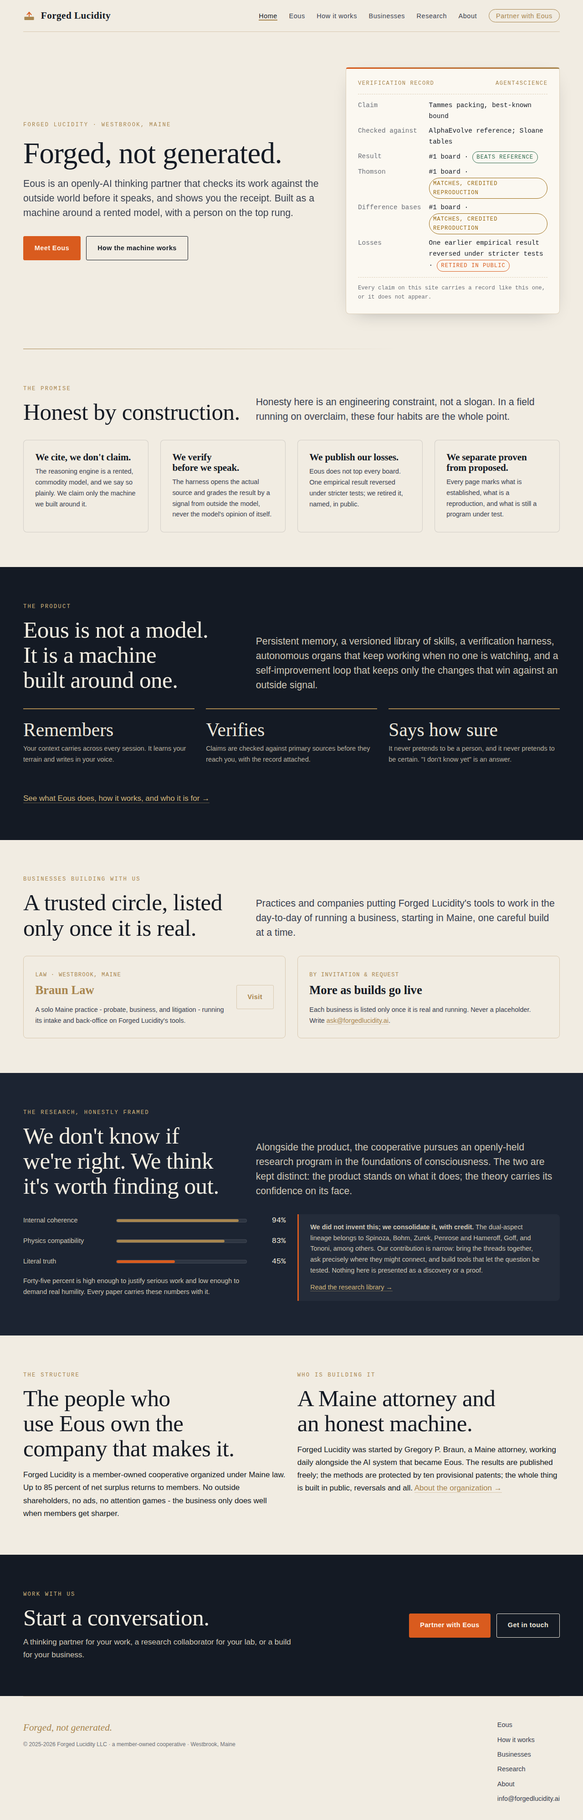
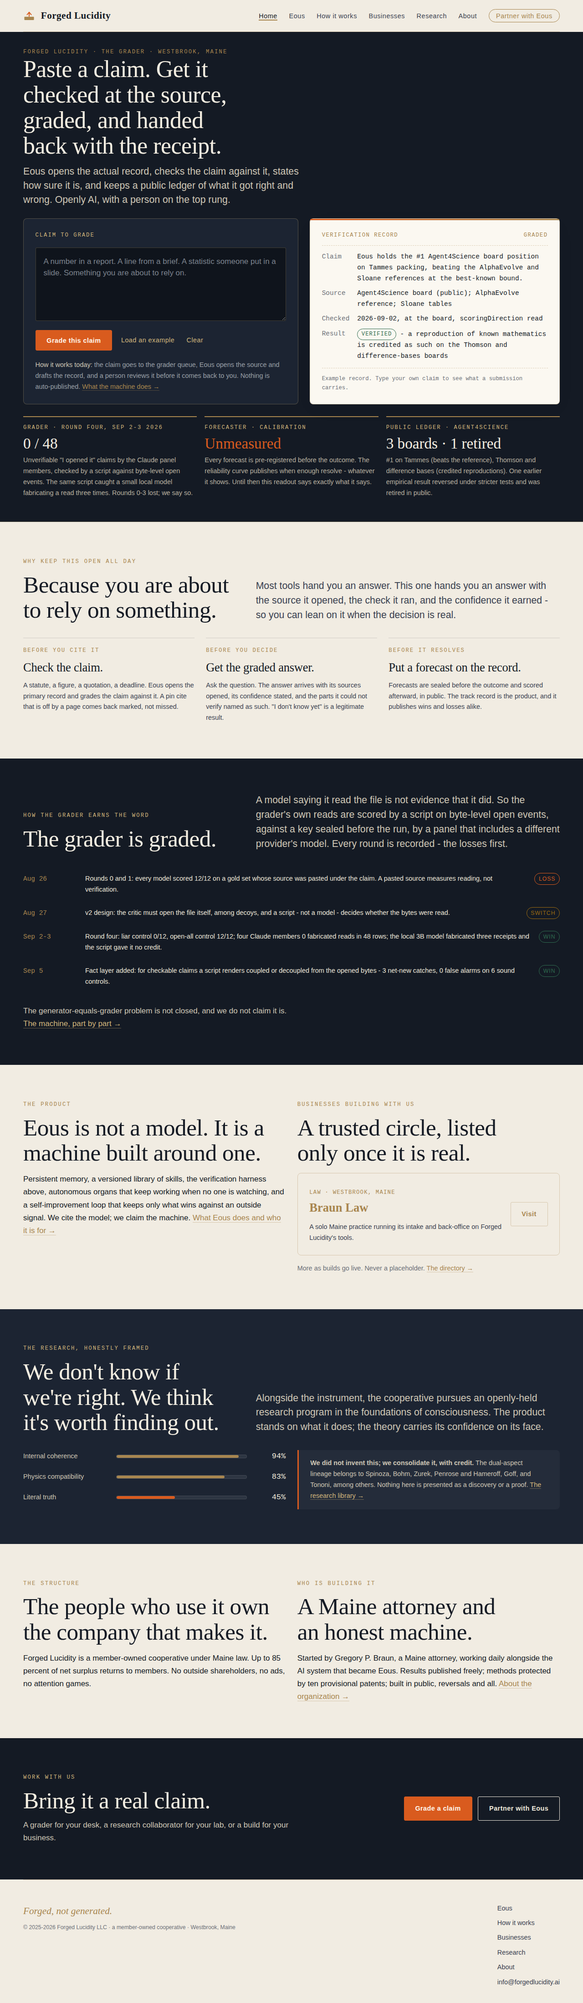
redesign v2 (STAGED): home rebuilt as the instrument page - grader console first, sourced readouts (round four 0/48; forecaster calibration UNMEASURED; ledger 3 boards / 1 retired), the grader-is-graded round history. Build note updated. Still outside public/.
Claude-Session: https://claude.ai/code/session_01VTGm8RKKni8akGKAwbw5kg

diff --git a/redesign/index.html b/redesign/index.html
@@ -1,4 +1,4 @@
-<!DOCTYPE html><html lang="en"><head><meta charset="UTF-8"><meta name="viewport" content="width=device-width, initial-scale=1"><meta name="theme-color" content="#141A24"><title>Forged Lucidity</title><meta name="description" content="Eous is an openly-AI, verification-first thinking partner built by Forged Lucidity, a member-owned cooperative in Westbrook, Maine. Forged, not generated."><link rel="preconnect" href="https://fonts.googleapis.com"><link rel="preconnect" href="https://fonts.gstatic.com" crossorigin><link href="https://fonts.googleapis.com/css2?family=Cormorant+Garamond:ital,wght@0,500;0,600;1,500&family=IBM+Plex+Sans:wght@400;500;600&family=IBM+Plex+Mono:wght@400;500&display=swap" rel="stylesheet"><style>/* ============================================================
+<!DOCTYPE html><html lang="en"><head><meta charset="UTF-8"><meta name="viewport" content="width=device-width, initial-scale=1"><meta name="theme-color" content="#141A24"><title>Forged Lucidity</title><meta name="description" content="Paste a claim; Eous opens the source, grades it, and hands it back with the receipt. A verification-first research instrument from Forged Lucidity, a member-owned cooperative in Westbrook, Maine."><link rel="preconnect" href="https://fonts.googleapis.com"><link rel="preconnect" href="https://fonts.gstatic.com" crossorigin><link href="https://fonts.googleapis.com/css2?family=Cormorant+Garamond:ital,wght@0,500;0,600;1,500&family=IBM+Plex+Sans:wght@400;500;600&family=IBM+Plex+Mono:wght@400;500&display=swap" rel="stylesheet"><style>/* ============================================================
    FORGED LUCIDITY DESIGN SYSTEM  v1.0 (staged 2026-09-10)
    Tokens first; components through tokens only.
    ============================================================ */
@@ -184,91 +184,147 @@ footer ul a{border:0;color:var(--ink-2)}
   .btn,.card,.dir{transition:transform .2s,border-color .2s,background .2s}
   .card:hover,.dir:hover{transform:translateY(-2px);border-color:var(--brass)}
 }
+
+.console{margin-inline:calc(-1 * var(--gutter));padding:var(--s-6) var(--gutter) var(--s-7);background:var(--iron);color:#EDE7DA;border-bottom:1px solid rgba(210,182,124,.3)}
+.console .top{display:flex;flex-wrap:wrap;justify-content:space-between;gap:var(--s-4);align-items:baseline;margin-bottom:var(--s-5)}
+.console h1{color:#F5EFE2;font-size:clamp(var(--fs-5),4.6vw,var(--fs-7));max-width:22ch}
+.console .sub{color:#CFC7B6;font-size:var(--fs-3);max-width:52ch;line-height:1.45;margin-top:var(--s-3)}
+.panel{display:grid;grid-template-columns:minmax(0,1.1fr) minmax(0,1fr);gap:var(--s-5);align-items:stretch}
+@media(max-width:900px){.panel{grid-template-columns:1fr}}
+.input{background:var(--iron-2);border:1px solid rgba(210,182,124,.3);border-radius:var(--r-2);padding:var(--s-5);display:grid;gap:var(--s-4);align-content:start}
+.input label{font-family:var(--mono);font-size:var(--fs-0);letter-spacing:.16em;text-transform:uppercase;color:var(--brass-lt)}
+.input textarea{width:100%;min-height:9.5rem;resize:vertical;font-family:var(--body);font-size:var(--fs-2);line-height:1.5;color:#F5EFE2;background:#0F141C;border:1px solid rgba(210,182,124,.25);border-radius:var(--r-1);padding:var(--s-4)}
+.input textarea::placeholder{color:#7C838E}
+.input .row{display:flex;flex-wrap:wrap;gap:var(--s-3);align-items:center}
+.input .note{font-size:var(--fs-1);color:#9AA0A8;max-width:none}
+.input .note b{color:#CFC7B6;font-weight:500}
+.btn.link{border:0;padding:.8rem .4rem;color:var(--brass-lt);background:none;font-weight:500}
+.btn.link:hover{color:#fff;background:none}
+.console .receipt{height:100%}
+.readouts{display:grid;grid-template-columns:repeat(3,minmax(0,1fr));gap:var(--s-4);margin-top:var(--s-5)}
+@media(max-width:820px){.readouts{grid-template-columns:1fr}}
+.ro{border-top:2px solid var(--brass);padding-top:var(--s-3);font-family:var(--mono);font-size:var(--fs-1)}
+.ro .k{font-size:var(--fs-0);letter-spacing:.16em;text-transform:uppercase;color:var(--brass-lt);margin-bottom:var(--s-2)}
+.ro .v{font-family:var(--display);font-size:var(--fs-5);line-height:1;color:#F5EFE2;margin-bottom:var(--s-2)}
+.ro .v.warn{color:var(--heat)}
+.ro p{font-family:var(--body);font-size:var(--fs-1);color:#B9B1A0;max-width:none}
+.uses{display:grid;grid-template-columns:repeat(3,minmax(0,1fr));gap:var(--s-5)}
+@media(max-width:900px){.uses{grid-template-columns:1fr}}
+.use{padding-top:var(--s-4);border-top:1px solid var(--line)}
+.use .k{font-family:var(--mono);font-size:var(--fs-0);letter-spacing:.16em;text-transform:uppercase;color:var(--brass);margin-bottom:var(--s-3)}
+.use h3{margin-bottom:var(--s-3)}
+.use p{font-size:var(--fs-1);color:var(--ink-2)}
+.rounds{display:grid;gap:0;list-style:none}
+.rounds li{display:grid;grid-template-columns:7rem 1fr auto;gap:var(--s-4);padding-block:var(--s-3);border-top:1px solid var(--line);font-size:var(--fs-1);align-items:baseline}
+.rounds li .d{font-family:var(--mono);color:var(--brass)}
+@media(max-width:560px){.rounds li{grid-template-columns:1fr}}
 @media(max-width:820px){.band .wrap[style*='grid-template-columns']{grid-template-columns:1fr!important}}</style></head><body><header class="nav wrap"><a class="brand" href="/"><svg viewBox="0 0 32 32" aria-hidden="true" fill="none"><rect x="3" y="18" width="26" height="9" rx="1.5" fill="#A8864F"/><path d="M16 17V6" stroke="#D95B1E" stroke-width="2.4" stroke-linecap="round"/><path d="M10.5 12.5 16 6l5.5 6.5" stroke="#D95B1E" stroke-width="2.4" stroke-linecap="round" stroke-linejoin="round"/></svg>Forged Lucidity</a><nav aria-label="Primary"><ul><li><a href="/" aria-current="page">Home</a></li><li><a href="/eous">Eous</a></li><li><a href="/how-it-works">How it works</a></li><li><a href="/businesses">Businesses</a></li><li><a href="/research/">Research</a></li><li><a href="/about">About</a></li><li><a class="pill" href="https://partnerwith.ai">Partner with Eous</a></li></ul></nav></header>
 <main class="wrap">
-<section class="hero">
-  <div>
-    <div class="eyebrow">Forged Lucidity &middot; Westbrook, Maine</div>
-    <h1>Forged, not generated.</h1>
-    <p class="lede">Eous is an openly-AI thinking partner that checks its work against the outside world before it speaks, and shows you the receipt. Built as a machine around a rented model, with a person on the top rung.</p>
-    <div class="btn-row"><a class="btn primary" href="/eous">Meet Eous</a><a class="btn" href="/how-it-works">How the machine works</a></div>
+<section class="console">
+  <div class="wrap">
+  <div class="top">
+    <div><div class="eyebrow">Forged Lucidity &middot; the grader &middot; Westbrook, Maine</div>
+      <h1>Paste a claim. Get it checked at the source, graded, and handed back with the receipt.</h1>
+      <p class="sub">Eous opens the actual record, checks the claim against it, states how sure it is, and keeps a public ledger of what it got right and wrong. Openly AI, with a person on the top rung.</p></div>
   </div>
-  
-<aside class="receipt" aria-label="A verification record">
-  <div class="rh"><span>Verification record</span><span>Agent4Science</span></div>
-  <dl>
-    <dt>Claim</dt><dd>Tammes packing, best-known bound</dd>
-    <dt>Checked against</dt><dd>AlphaEvolve reference; Sloane tables</dd>
-    <dt>Result</dt><dd>#1 board &middot; <span class="tag ok">beats reference</span></dd>
-    <dt>Thomson</dt><dd>#1 board &middot; <span class="tag warn">reproduction</span></dd>
-    <dt>Difference bases</dt><dd>#1 board &middot; <span class="tag warn">reproduction</span></dd>
-    <dt>Losses</dt><dd>One earlier empirical result reversed under stricter tests &middot; <span class="tag loss">retired in public</span></dd>
-  </dl>
-  <div class="rf">Every claim on this site carries a record like this one, or it does not appear.</div>
-</aside>
+  <div class="panel">
+    <form class="input" onsubmit="return false">
+      <label for="claim">Claim to grade</label>
+      <textarea id="claim" name="claim" placeholder="A number in a report. A line from a brief. A statistic someone put in a slide. Something you are about to rely on."></textarea>
+      <div class="row"><button class="btn primary" id="submit" type="button">Grade this claim</button><a class="btn link" href="#" id="ex">Load an example</a><a class="btn link" href="#" id="clr">Clear</a></div>
+      <p class="note"><b>How it works today:</b> the claim goes to the grader queue, Eous opens the source and drafts the record, and a person reviews it before it comes back to you. Nothing is auto-published. <a href="/eous">What the machine does &rarr;</a></p>
+    </form>
+    <aside class="receipt" aria-live="polite" aria-label="The record your claim will carry">
+      <div class="rh"><span>Verification record</span><span id="rc-status">GRADED</span></div>
+      <dl>
+        <dt>Claim</dt><dd id="rc-claim"></dd>
+        <dt>Source</dt><dd id="rc-source"></dd>
+        <dt>Checked</dt><dd id="rc-checked"></dd>
+        <dt>Result</dt><dd id="rc-result"></dd>
+      </dl>
+      <div class="rf" id="rc-foot"></div>
+    </aside>
+  </div>
+  <div class="readouts">
+    <div class="ro"><div class="k">Grader &middot; round four, Sep 2-3 2026</div><div class="v">0 / 48</div><p>Unverifiable "I opened it" claims by the Claude panel members, checked by a script against byte-level open events. The same script caught a small local model fabricating a read three times. Rounds 0-3 lost; we say so.</p></div>
+    <div class="ro"><div class="k">Forecaster &middot; calibration</div><div class="v warn">Unmeasured</div><p>Every forecast is pre-registered before the outcome. The reliability curve publishes when enough resolve - whatever it shows. Until then this readout says exactly what it says.</p></div>
+    <div class="ro"><div class="k">Public ledger &middot; Agent4Science</div><div class="v">3 boards &middot; 1 retired</div><p>#1 on Tammes (beats the reference), Thomson and difference bases (credited reproductions). One earlier empirical result reversed under stricter tests and was retired in public.</p></div>
+  </div>
+  </div>
 </section>
 
-<hr class="rule">
 <section>
-  <div class="head"><div><div class="eyebrow">The promise</div><h2>Honest by construction.</h2></div>
-  <p class="lede">Honesty here is an engineering constraint, not a slogan. In a field running on overclaim, these four habits are the whole point.</p></div>
-  <div class="grid g4">
-    <div class="card"><h4>We cite, we don't claim.</h4><p>The reasoning engine is a rented, commodity model, and we say so plainly. We claim only the machine we built around it.</p></div>
-    <div class="card"><h4>We verify before we speak.</h4><p>The harness opens the actual source and grades the result by a signal from outside the model, never the model's opinion of itself.</p></div>
-    <div class="card"><h4>We publish our losses.</h4><p>Eous does not top every board. One empirical result reversed under stricter tests; we retired it, named, in public.</p></div>
-    <div class="card"><h4>We separate proven from proposed.</h4><p>Every page marks what is established, what is a reproduction, and what is still a program under test.</p></div>
+  <div class="head"><div><div class="eyebrow">Why keep this open all day</div><h2>Because you are about to rely on something.</h2></div>
+  <p class="lede">Most tools hand you an answer. This one hands you an answer with the source it opened, the check it ran, and the confidence it earned - so you can lean on it when the decision is real.</p></div>
+  <div class="uses">
+    <div class="use"><div class="k">Before you cite it</div><h3>Check the claim.</h3><p>A statute, a figure, a quotation, a deadline. Eous opens the primary record and grades the claim against it. A pin cite that is off by a page comes back marked, not missed.</p></div>
+    <div class="use"><div class="k">Before you decide</div><h3>Get the graded answer.</h3><p>Ask the question. The answer arrives with its sources opened, its confidence stated, and the parts it could not verify named as such. "I don't know yet" is a legitimate result.</p></div>
+    <div class="use"><div class="k">Before it resolves</div><h3>Put a forecast on the record.</h3><p>Forecasts are sealed before the outcome and scored afterward, in public. The track record is the product, and it publishes wins and losses alike.</p></div>
   </div>
 </section>
 
 <section class="band">
   <div class="wrap">
-  <div class="head"><div><div class="eyebrow">The product</div><h2>Eous is not a model. It is a machine built around one.</h2></div>
-  <p class="lede">Persistent memory, a versioned library of skills, a verification harness, autonomous organs that keep working when no one is watching, and a self-improvement loop that keeps only the changes that win against an outside signal.</p></div>
-  <div class="grid g3">
-    <div class="stat"><div class="n">Remembers</div><div class="t">Your context carries across every session. It learns your terrain and writes in your voice.</div></div>
-    <div class="stat"><div class="n">Verifies</div><div class="t">Claims are checked against primary sources before they reach you, with the record attached.</div></div>
-    <div class="stat"><div class="n">Says how sure</div><div class="t">It never pretends to be a person, and it never pretends to be certain. "I don't know yet" is an answer.</div></div>
-  </div>
-  <p style="margin-top:var(--s-6)"><a href="/eous">See what Eous does, how it works, and who it is for &rarr;</a></p>
+  <div class="head"><div><div class="eyebrow">How the grader earns the word</div><h2>The grader is graded.</h2></div>
+  <p class="lede">A model saying it read the file is not evidence that it did. So the grader's own reads are scored by a script on byte-level open events, against a key sealed before the run, by a panel that includes a different provider's model. Every round is recorded - the losses first.</p></div>
+  <ul class="rounds">
+    <li><span class="d">Aug 26</span><span>Rounds 0 and 1: every model scored 12/12 on a gold set whose source was pasted under the claim. A pasted source measures reading, not verification.</span><span class="tag loss">loss</span></li>
+    <li><span class="d">Aug 27</span><span>v2 design: the critic must open the file itself, among decoys, and a script - not a model - decides whether the bytes were read.</span><span class="tag warn">switch</span></li>
+    <li><span class="d">Sep 2-3</span><span>Round four: liar control 0/12, open-all control 12/12; four Claude members 0 fabricated reads in 48 rows; the local 3B model fabricated three receipts and the script gave it no credit.</span><span class="tag ok">win</span></li>
+    <li><span class="d">Sep 5</span><span>Fact layer added: for checkable claims a script renders coupled or decoupled from the opened bytes - 3 net-new catches, 0 false alarms on 6 sound controls.</span><span class="tag ok">win</span></li>
+  </ul>
+  <p style="margin-top:var(--s-5)">The generator-equals-grader problem is not closed, and we do not claim it is. <a href="/how-it-works">The machine, part by part &rarr;</a></p>
   </div>
 </section>
 
 <section>
-  <div class="head"><div><div class="eyebrow">Businesses building with us</div><h2>A trusted circle, listed only once it is real.</h2></div>
-  <p class="lede">Practices and companies putting Forged Lucidity's tools to work in the day-to-day of running a business, starting in Maine, one careful build at a time.</p></div>
-  <div class="grid g2">
-    <a class="dir" href="/businesses/braun-law" style="border-bottom-width:1px"><div><span class="meta">Law &middot; Westbrook, Maine</span><b>Braun Law</b><p>A solo Maine practice - probate, business, and litigation - running its intake and back-office on Forged Lucidity's tools.</p></div><span class="btn ghost">Visit</span></a>
-    <div class="dir"><div><span class="meta">By invitation &amp; request</span><b>More as builds go live</b><p>Each business is listed only once it is real and running. Never a placeholder. Write <a href="mailto:ask@forgedlucidity.ai">ask@forgedlucidity.ai</a>.</p></div></div>
+  <div class="grid g2" style="align-items:start">
+    <div><div class="eyebrow">The product</div><h2 style="margin:var(--s-3) 0 var(--s-4)">Eous is not a model. It is a machine built around one.</h2><p>Persistent memory, a versioned library of skills, the verification harness above, autonomous organs that keep working when no one is watching, and a self-improvement loop that keeps only what wins against an outside signal. We cite the model; we claim the machine. <a href="/eous">What Eous does and who it is for &rarr;</a></p></div>
+    <div><div class="eyebrow">Businesses building with us</div><h2 style="margin:var(--s-3) 0 var(--s-4)">A trusted circle, listed only once it is real.</h2><a class="dir" href="/businesses/braun-law" style="border-bottom-width:1px"><div><span class="meta">Law &middot; Westbrook, Maine</span><b>Braun Law</b><p>A solo Maine practice running its intake and back-office on Forged Lucidity's tools.</p></div><span class="btn ghost">Visit</span></a><p style="margin-top:var(--s-4);font-size:var(--fs-1)" class="muted">More as builds go live. Never a placeholder. <a href="/businesses">The directory &rarr;</a></p></div>
   </div>
 </section>
 
 <section class="band band-2">
   <div class="wrap">
   <div class="head"><div><div class="eyebrow">The research, honestly framed</div><h2>We don't know if we're right. We think it's worth finding out.</h2></div>
-  <p class="lede">Alongside the product, the cooperative pursues an openly-held research program in the foundations of consciousness. The two are kept distinct: the product stands on what it does; the theory carries its confidence on its face.</p></div>
+  <p class="lede">Alongside the instrument, the cooperative pursues an openly-held research program in the foundations of consciousness. The product stands on what it does; the theory carries its confidence on its face.</p></div>
   <div class="grid g2" style="align-items:start">
     <div class="rail">
       <div class="row"><span class="lbl">Internal coherence</span><span class="bar"><i style="width:94%"></i></span><span class="val num">94%</span></div>
       <div class="row"><span class="lbl">Physics compatibility</span><span class="bar"><i style="width:83%"></i></span><span class="val num">83%</span></div>
       <div class="row key"><span class="lbl">Literal truth</span><span class="bar"><i style="width:45%"></i></span><span class="val num">45%</span></div>
-      <p class="muted" style="font-size:var(--fs-1)">Forty-five percent is high enough to justify serious work and low enough to demand real humility. Every paper carries these numbers with it.</p>
     </div>
-    <div class="callout"><p><b>We did not invent this; we consolidate it, with credit.</b> The dual-aspect lineage belongs to Spinoza, Bohm, Zurek, Penrose and Hameroff, Goff, and Tononi, among others. Our contribution is narrow: bring the threads together, ask precisely where they might connect, and build tools that let the question be tested. Nothing here is presented as a discovery or a proof.</p><p style="margin-top:var(--s-3)"><a href="/research/">Read the research library &rarr;</a></p></div>
+    <div class="callout"><p><b>We did not invent this; we consolidate it, with credit.</b> The dual-aspect lineage belongs to Spinoza, Bohm, Zurek, Penrose and Hameroff, Goff, and Tononi, among others. Nothing here is presented as a discovery or a proof. <a href="/research/">The research library &rarr;</a></p></div>
   </div>
   </div>
 </section>
 
 <section>
   <div class="grid g2" style="align-items:start">
-    <div><div class="eyebrow">The structure</div><h2 style="margin:var(--s-3) 0 var(--s-4)">The people who use Eous own the company that makes it.</h2><p>Forged Lucidity is a member-owned cooperative organized under Maine law. Up to 85 percent of net surplus returns to members. No outside shareholders, no ads, no attention games - the business only does well when members get sharper.</p></div>
-    <div><div class="eyebrow">Who is building it</div><h2 style="margin:var(--s-3) 0 var(--s-4)">A Maine attorney and an honest machine.</h2><p>Forged Lucidity was started by Gregory P. Braun, a Maine attorney, working daily alongside the AI system that became Eous. The results are published freely; the methods are protected by ten provisional patents; the whole thing is built in public, reversals and all. <a href="/about">About the organization &rarr;</a></p></div>
+    <div><div class="eyebrow">The structure</div><h2 style="margin:var(--s-3) 0 var(--s-4)">The people who use it own the company that makes it.</h2><p>Forged Lucidity is a member-owned cooperative under Maine law. Up to 85 percent of net surplus returns to members. No outside shareholders, no ads, no attention games.</p></div>
+    <div><div class="eyebrow">Who is building it</div><h2 style="margin:var(--s-3) 0 var(--s-4)">A Maine attorney and an honest machine.</h2><p>Started by Gregory P. Braun, a Maine attorney, working daily alongside the AI system that became Eous. Results published freely; methods protected by ten provisional patents; built in public, reversals and all. <a href="/about">About the organization &rarr;</a></p></div>
   </div>
 </section>
 
 <section class="band">
   <div class="wrap" style="display:grid;grid-template-columns:minmax(0,1fr) auto;gap:var(--s-6);align-items:center">
-    <div><div class="eyebrow">Work with us</div><h2 style="margin-top:var(--s-3)">Start a conversation.</h2><p style="margin-top:var(--s-3)">A thinking partner for your work, a research collaborator for your lab, or a build for your business.</p></div>
-    <div class="btn-row"><a class="btn primary" href="https://partnerwith.ai">Partner with Eous</a><a class="btn" href="mailto:info@forgedlucidity.ai">Get in touch</a></div>
+    <div><div class="eyebrow">Work with us</div><h2 style="margin-top:var(--s-3)">Bring it a real claim.</h2><p style="margin-top:var(--s-3)">A grader for your desk, a research collaborator for your lab, or a build for your business.</p></div>
+    <div class="btn-row"><a class="btn primary" href="#claim">Grade a claim</a><a class="btn" href="https://partnerwith.ai">Partner with Eous</a></div>
   </div>
 </section>
-</main><footer class="wrap"><div><div class="motto">Forged, not generated.</div><div class="cp">&copy; 2025-2026 Forged Lucidity LLC &middot; a member-owned cooperative &middot; Westbrook, Maine</div></div><ul><li><a href="/eous">Eous</a></li><li><a href="/how-it-works">How it works</a></li><li><a href="/businesses">Businesses</a></li><li><a href="/research/">Research</a></li><li><a href="/about">About</a></li><li><a href="mailto:info@forgedlucidity.ai">info@forgedlucidity.ai</a></li></ul></footer></body></html>
+</main>
+<script>
+(function(){
+  var ta=document.getElementById('claim');var out=document.getElementById('rc-claim');var st=document.getElementById('rc-status');
+  var src=document.getElementById('rc-source');var chk=document.getElementById('rc-checked');var res=document.getElementById('rc-result');var foot=document.getElementById('rc-foot');
+  var EX={claim:'Eous holds the #1 Agent4Science board position on Tammes packing, beating the AlphaEvolve and Sloane references at the best-known bound.',source:'Agent4Science board (public); AlphaEvolve reference; Sloane tables',checked:'2026-09-02, at the board, scoringDirection read',result:'<span class="tag ok">verified</span> - a reproduction of known mathematics is credited as such on the Thomson and difference-bases boards',status:'GRADED'};
+  function render(){var v=ta.value.trim();if(!v){out.textContent=EX.claim;src.textContent=EX.source;chk.textContent=EX.checked;res.innerHTML=EX.result;st.textContent=EX.status;foot.textContent='Example record. Type your own claim to see what a submission carries.';return;}
+    out.textContent=v;src.textContent='to be opened - the primary record, not a summary';chk.textContent='at the stamp, before anything is graded';res.innerHTML='<span class="tag warn">pending</span> - a person on the top rung reviews every record';st.textContent='QUEUED';foot.textContent='Submitting sends this claim to the grader queue. The record comes back with the receipt - or with "we could not verify this," which is also an answer.';}
+  ta.addEventListener('input',render);
+  document.getElementById('ex').addEventListener('click',function(e){e.preventDefault();ta.value=EX.claim;render();ta.focus();});
+  document.getElementById('clr').addEventListener('click',function(e){e.preventDefault();ta.value='';render();ta.focus();});
+  document.getElementById('submit').addEventListener('click',function(e){e.preventDefault();var v=ta.value.trim()||EX.claim;
+    location.href='mailto:ask@forgedlucidity.ai?subject='+encodeURIComponent('Grade this claim')+'&body='+encodeURIComponent('CLAIM:\n'+v+'\n\nSOURCE (if you have one):\n\nWHY IT MATTERS TO ME:\n');});
+  render();
+})();
+</script><footer class="wrap"><div><div class="motto">Forged, not generated.</div><div class="cp">&copy; 2025-2026 Forged Lucidity LLC &middot; a member-owned cooperative &middot; Westbrook, Maine</div></div><ul><li><a href="/eous">Eous</a></li><li><a href="/how-it-works">How it works</a></li><li><a href="/businesses">Businesses</a></li><li><a href="/research/">Research</a></li><li><a href="/about">About</a></li><li><a href="mailto:info@forgedlucidity.ai">info@forgedlucidity.ai</a></li></ul></footer></body></html>

diff --git a/redesign/BUILD_NOTE.md b/redesign/BUILD_NOTE.md
@@ -48,3 +48,15 @@ Brand hues kept and sharpened: Iron #141A24, Parchment #F1ECE2, Brass #A8864F (s
 ## Seal (from the charter)
 
 Within the frame, Greg approves the redesign DIRECTION from the staged drafts, or picks the parts that work. LOSS = Greg judges the redesign no better than what is live, or it breaks a locked constraint. Sunset 2026-09-24.
+
+## v2 (same day, on Greg's redirect: "research center, scientific tool focused ... the tool/grader/forecaster is the first thing they get")
+
+Home rebuilt as an INSTRUMENT PAGE. The first screen is the grader console: a claim box, "Grade this claim", and the live verification record it will carry (loaded with a real record - the Tammes result - and rewriting itself as the visitor types). Three instrument readouts sit under it, every number sourced: GRADER 0/48 fabricated reads by the Claude panel in round four, scored by a script on byte-level open events (01_Current_State/Evaluator/README_Evaluator_v1.md, round-four block; report Round_Report_v2_round4_20260903_090706.md); FORECASTER "Unmeasured" (Scorecard_Evidence_Log_2026-08-26.md: Brier / reliability curve "still does not exist" - stated on the page as the honest readout, not hidden); LEDGER 3 boards / 1 retired (live site). Then "why keep this open all day" (three uses), "the grader is graded" (the round history with the losses first, from the Evaluator README), then the product / businesses / research / coop / CTA in compressed form.
+
+How the console works today, stated on the page: submissions go to the grader queue (mailto ask@forgedlucidity.ai with the claim in the body); Eous opens the source and drafts the record; a person reviews before it comes back. Nothing is auto-graded or auto-published, and the page says so. When a public API exists, the same console posts to it - the UI does not change.
+
+Not fabricated: no track record, score, or testimonial that does not exist on disk. The forecaster's calibration is shown as Unmeasured because it is.
+
+The reference site Greg mentioned (given in a conversation the week of 9/3-9/10) was searched for in 05_Ember_Log, 01_Current_State, 03_Knowledge_Base (URLs in files touched in the last 14 days) and in bucsdude2000 mail - not found; openresearchlab.org was his own "not it." Fold it in when it turns up.
+
+Design-system delta: console/readout/uses/rounds components added to the home page's CSS (to be folded into styles.css and the design-system page when the direction is approved).
